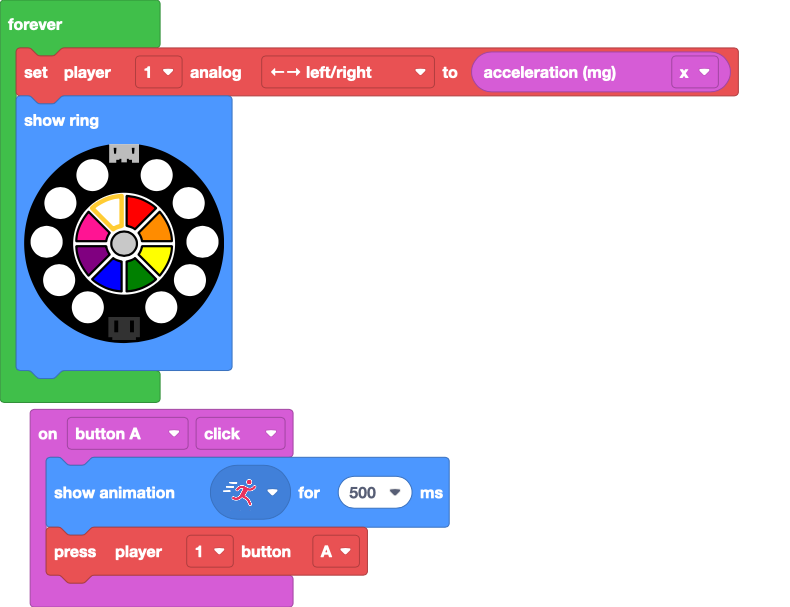
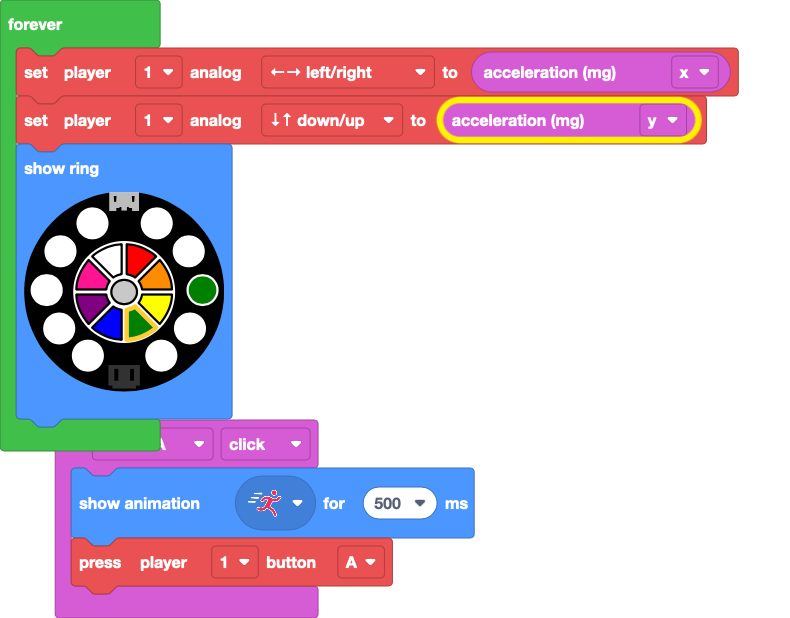
Update main.blocks, main.ts

Changed region(s): [[0.0, 0.0593, 0.9418, 1.0], [0.3646, 0.9489, 0.4253, 1.0], [0.0304, 0.0297, 0.0911, 0.0593]]

diff --git a/main.ts b/main.ts
@@ -4,7 +4,8 @@ input.buttonA.onEvent(ButtonEvent.Click, function () {
 })
 forever(function () {
     makerController.player1.setAnalog(ArcadeAnalogButton.LeftRight, input.acceleration(Dimension.X))
+    makerController.player1.setAnalog(ArcadeAnalogButton.DownUp, input.acceleration(Dimension.Y))
     light.showRing(
-    `white white white white white white white white white white`
+    `white white white white white white white green white white`
     )
 })
